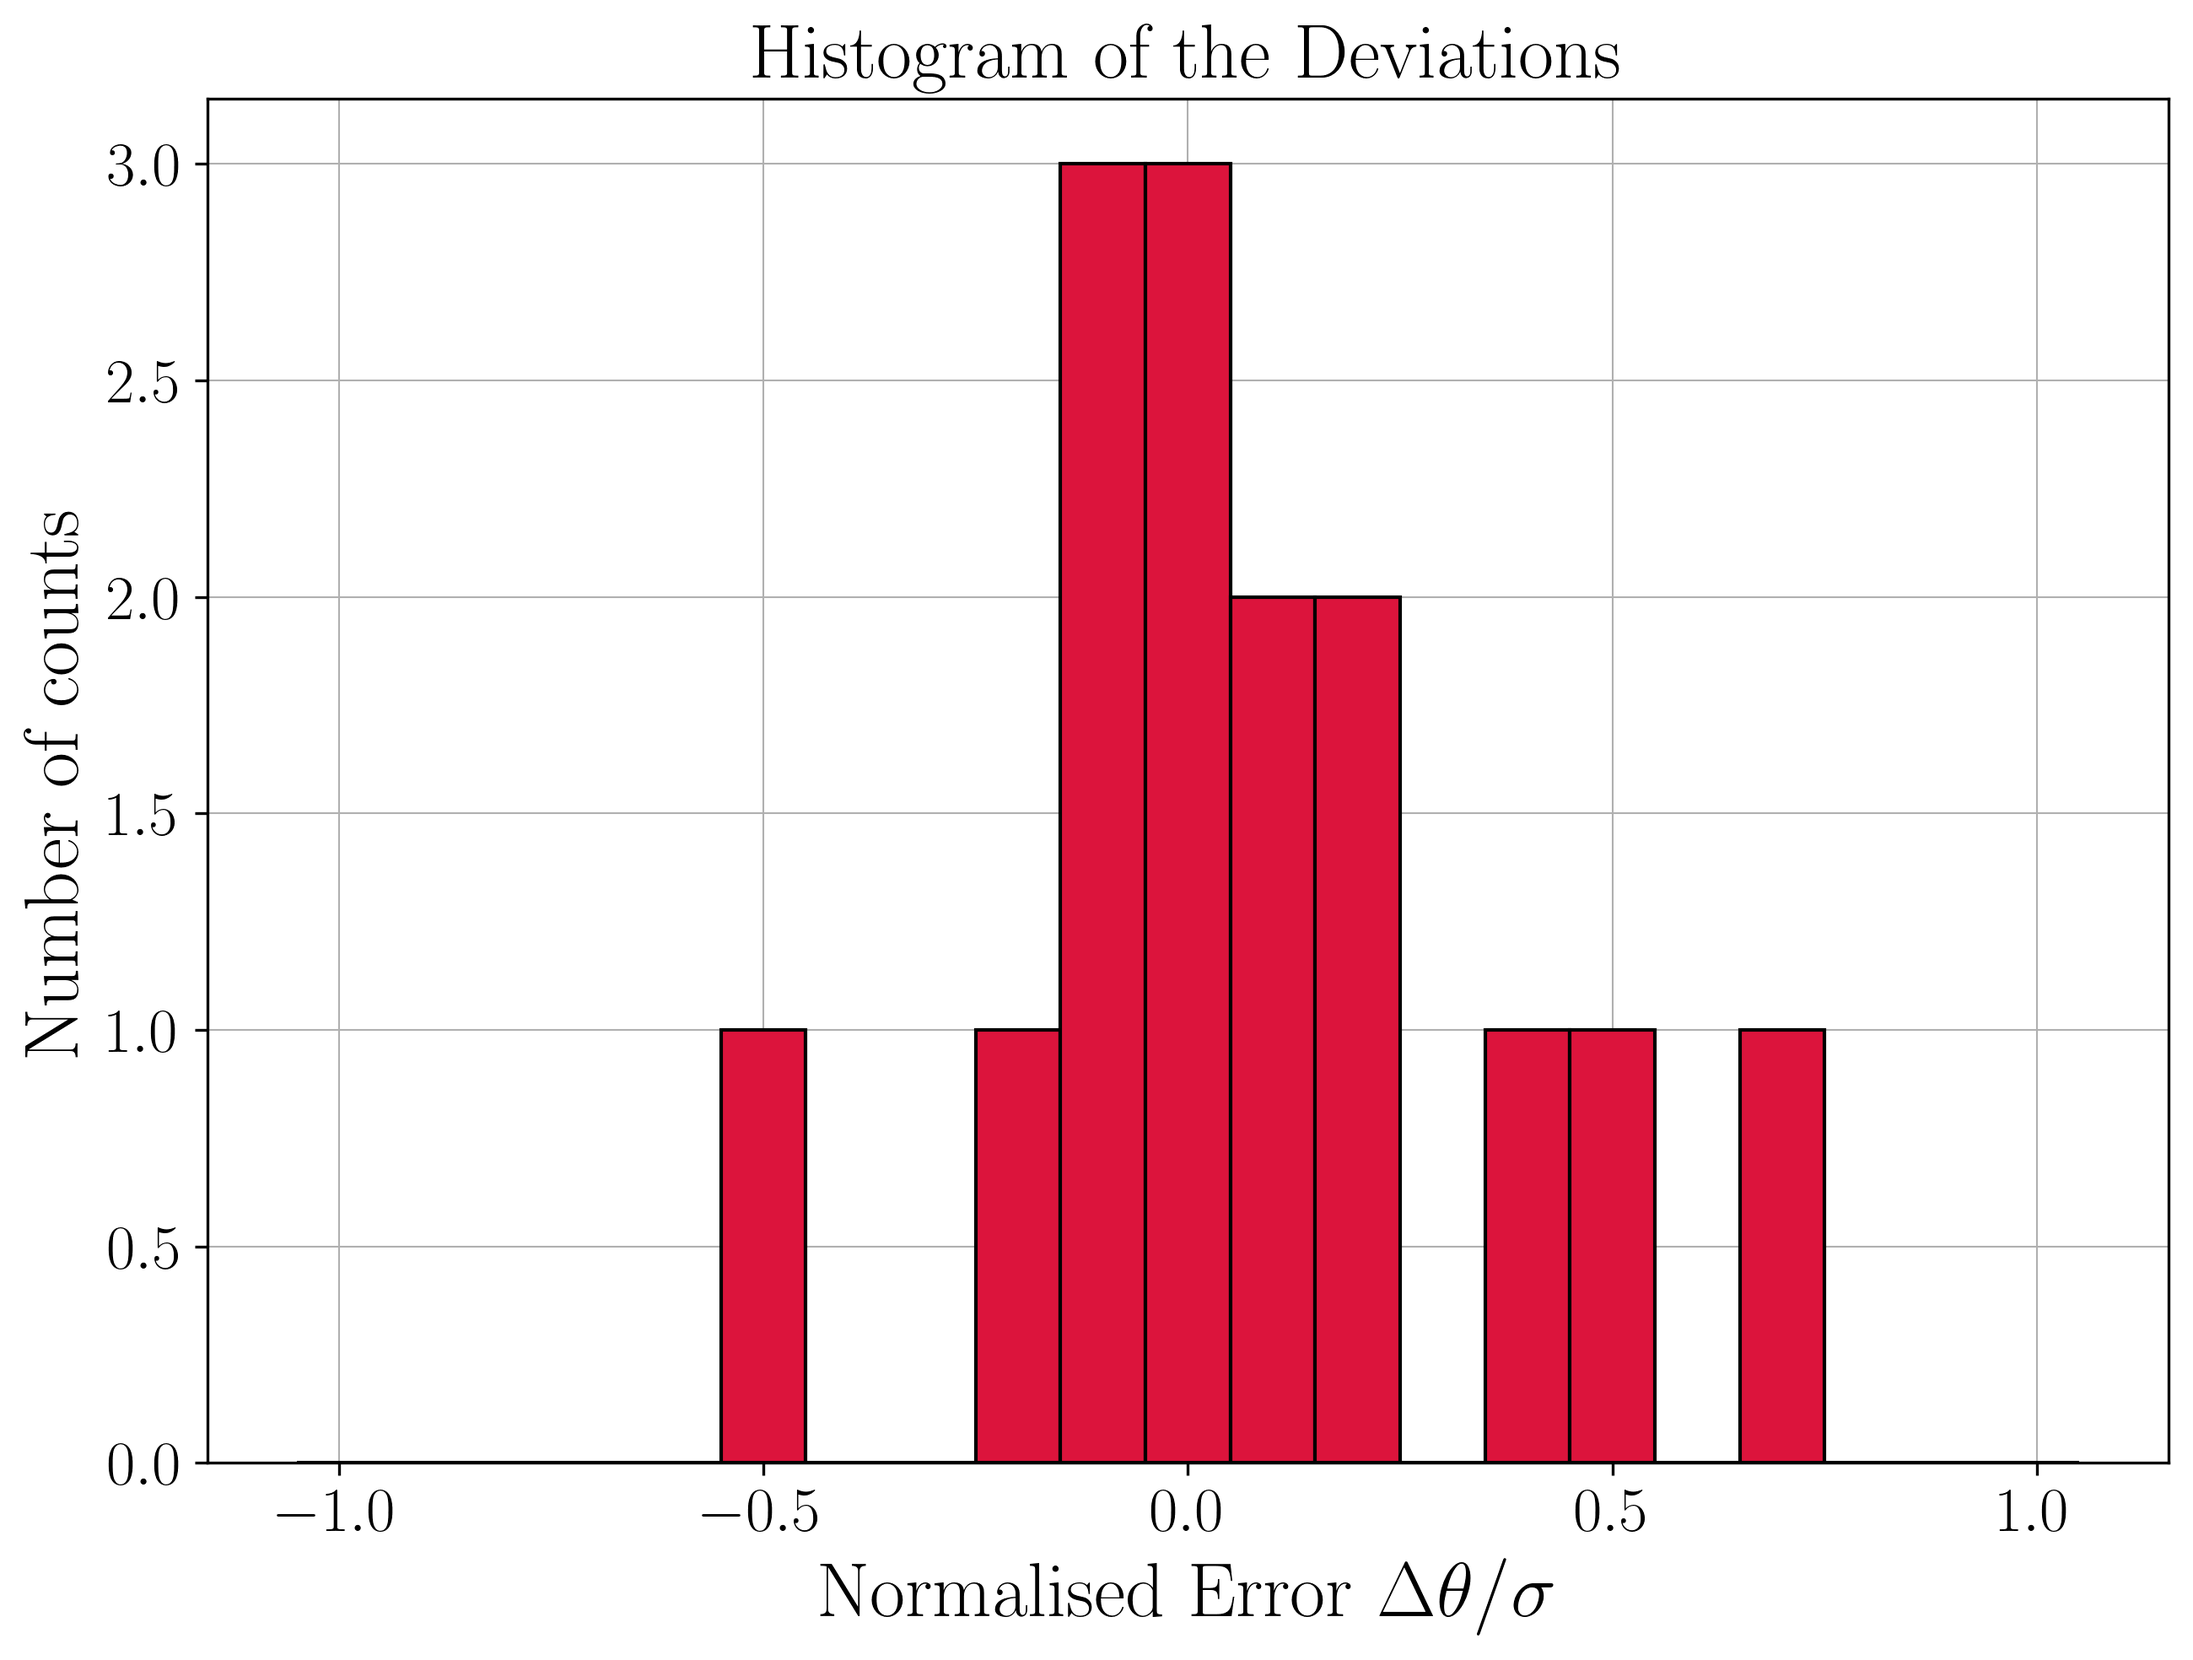
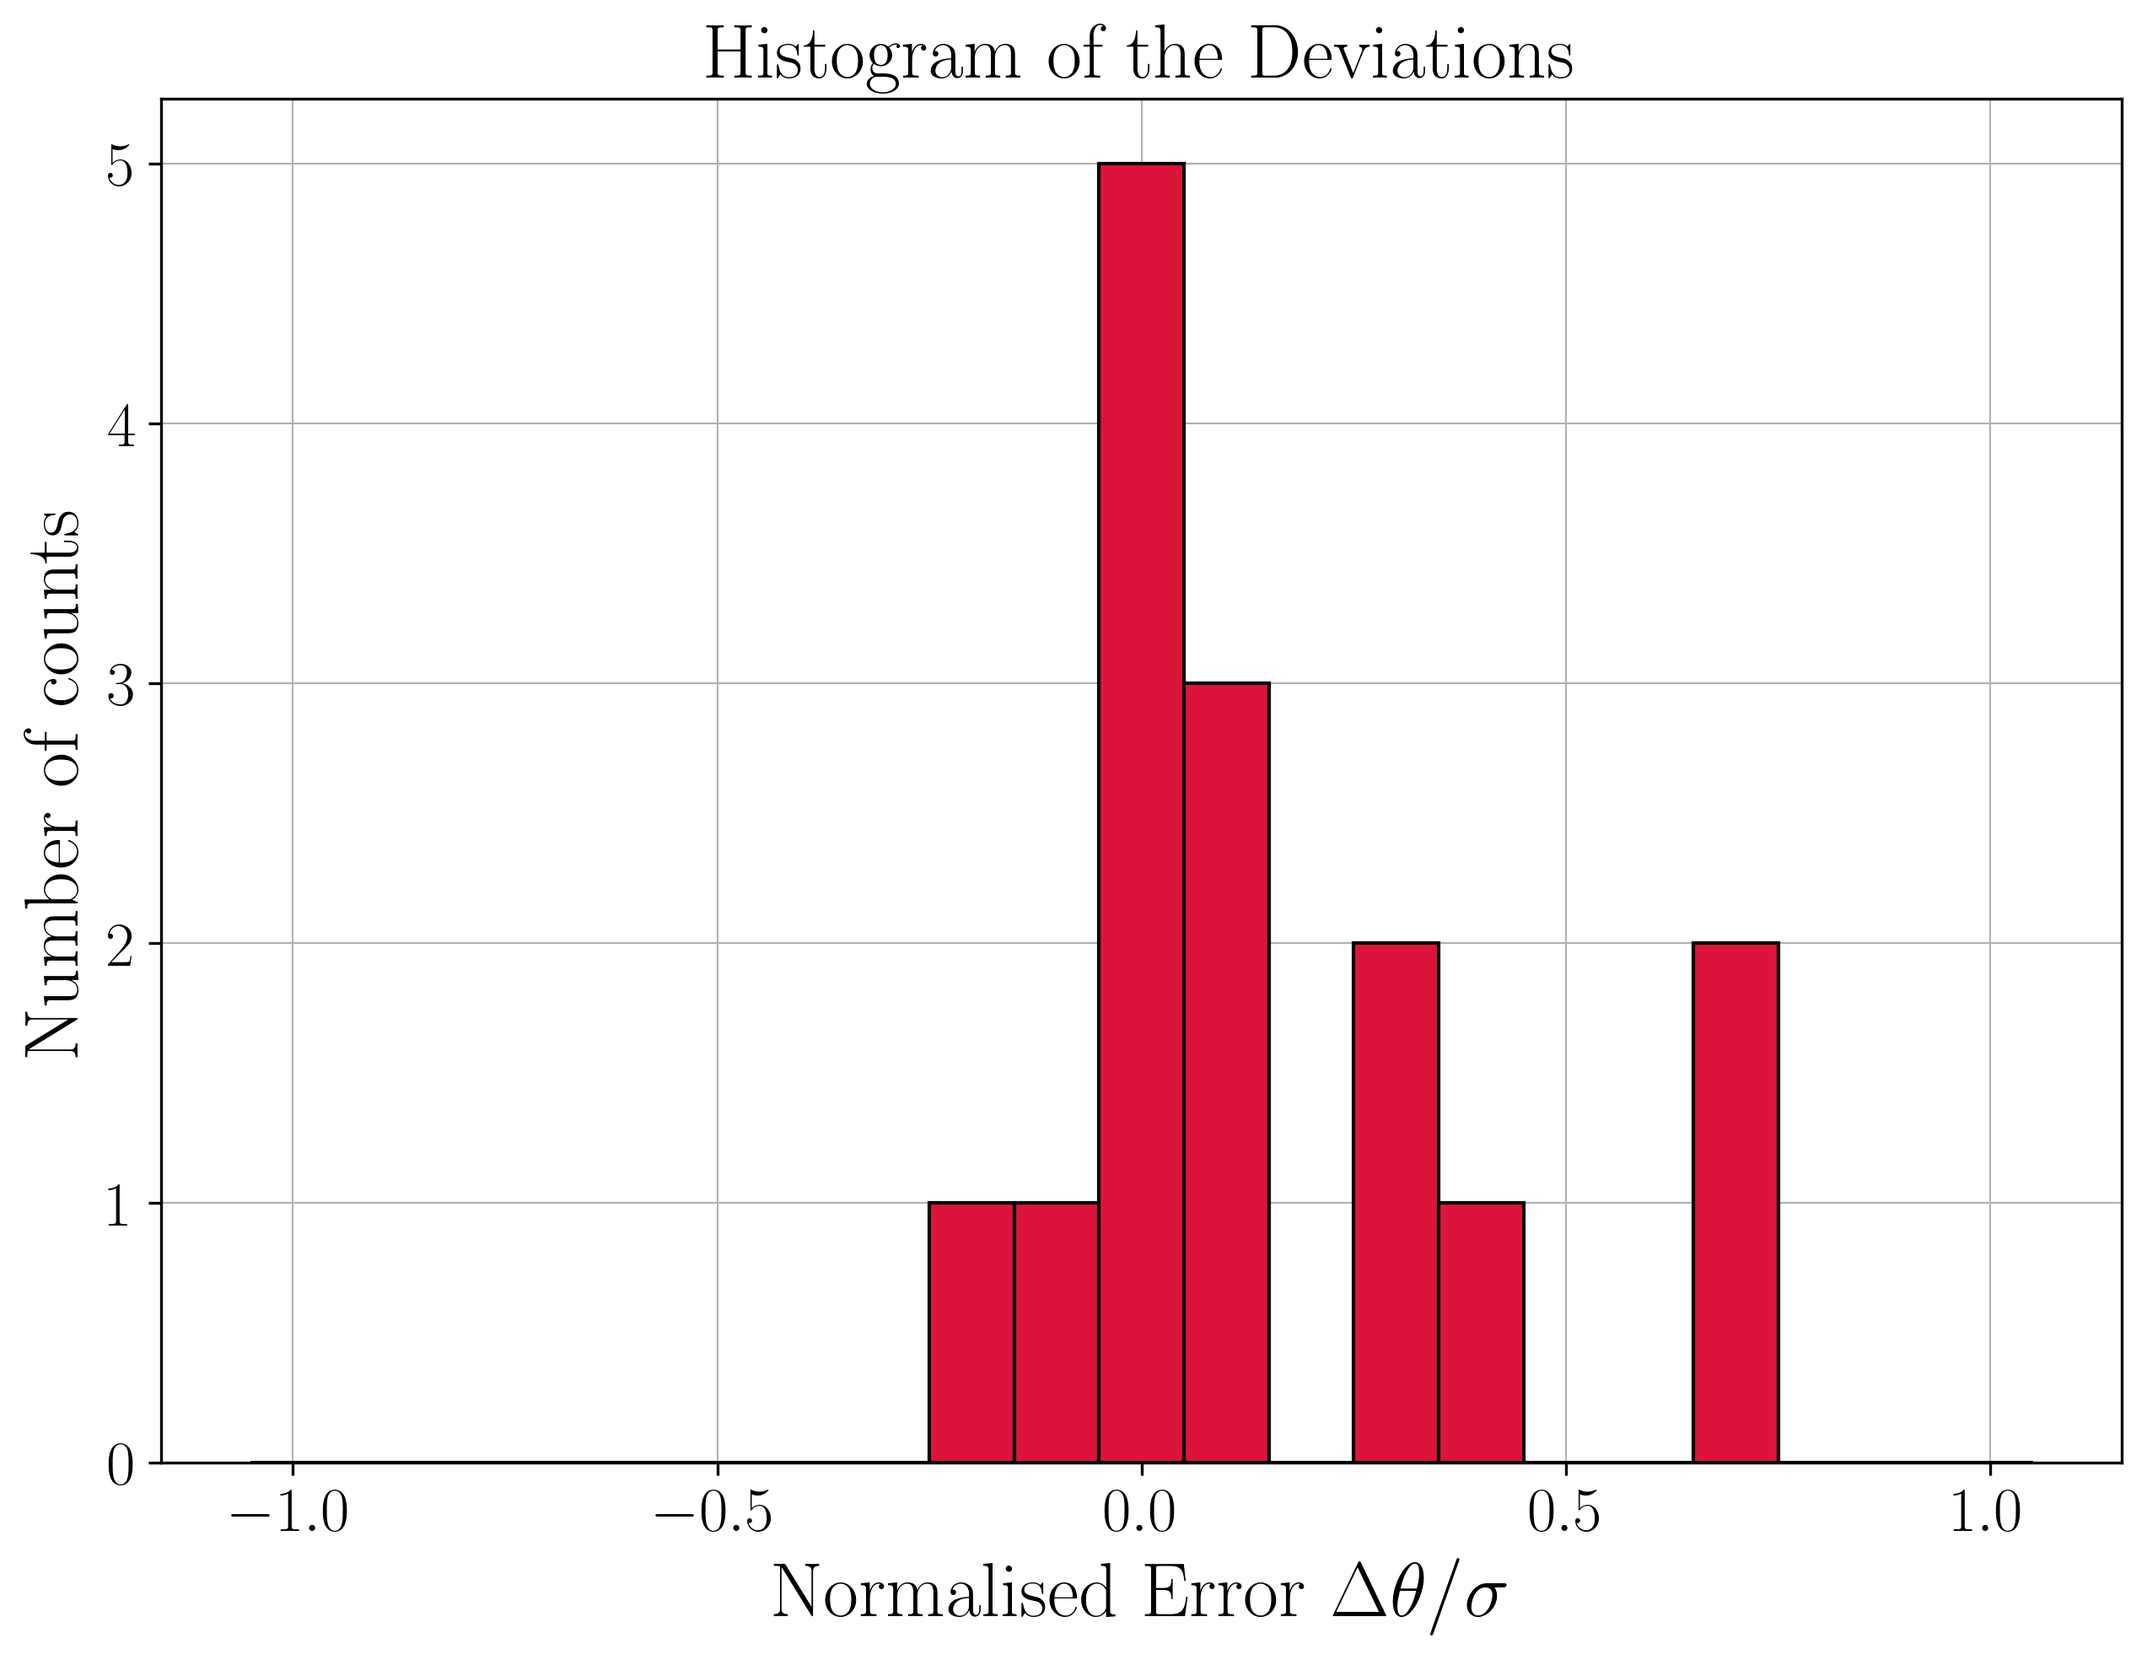
fixed equilibrium model

diff --git a/thermal_distribution.py b/thermal_distribution.py
@@ -18,8 +18,6 @@ plt.rcParams['legend.fontsize'] = 20
 plt.rcParams['savefig.dpi'] = 300
 plt.rcParams['savefig.bbox'] = 'tight'
 plt.rcParams['savefig.pad_inches'] = 0.1
-
-#plt.rcParams['savefig.transparent'] = True
 plt.rcParams['figure.figsize'] = (10, 7)
 
 # Set a random seed
@@ -40,8 +38,6 @@ for i in range(n):
 # Setup the spins
 s = np.random.randint(0, 2, n)
 s[s == 0] = -1
-
-print(s)
 
 # Calculation of the energy
 H = lambda s, h, j: - np.einsum("i, i ->", h, s) - np.einsum("a, ab, b ->", s, j, s) / 2
@@ -78,7 +74,7 @@ def spin_flip(N, s, h, j):
 N = int(2E4)
 
 # Every n_sep-th configuration of the last n_train values is taken as train data
-n_sep = 10
+n_sep = 5
 n_train = int(1E4)
 
 # Perform the spin flips on the spins s
@@ -94,10 +90,6 @@ s2 = np.einsum("ab, ac -> abc", s, s)
 mean_s = np.mean(s, axis = 0)
 mean_s2 = np.mean(s2, axis = 0)
 
-print(mean_s)
-
-print(H(mean_s, h, j))
-
 # We are now going to infer the parameters h and j
 # For that we first initialise some random values for h_0 and j_0
 h_0 = np.random.normal(0, 1, n)
@@ -108,7 +100,7 @@ for i in range(n):
     j_0[:, i] = j[i, :]
 
 # Number of steps for the gradient descend
-m = int(370)
+m = int(5E3)
 
 # Learning rate a
 a = 0.3
@@ -143,14 +135,15 @@ for i in range(m):
     # MSE of the weights
     lsq.append(np.mean(np.append(((h_0 - h) ** 2).flatten(), (((j_0 - j) * n) ** 2).flatten())))
  
-    l = np.einsum("b, ab -> a", h_0, s) + np.einsum("ab, bc, ac -> a", s, j_0, s) / 2
-    l = -np.mean(l)
+    l = np.einsum("i, i ->", h_0, mean_s) + np.einsum("ij, ij ->", j_0, mean_s2) / 2
     loss.append(l)
 
     # Progress
     if i % 10 == 0 : 
         print(i)
-        print(lsq[-1])
+        print("mean squared weights : {:.5f}".format(lsq[-1]))
+        print("loss : {:.5f}\n".format(l))
+
         
 # Plot of the loss
 fig, ax = plt.subplots()
@@ -166,6 +159,15 @@ ax.set_ylabel("Negative log-likelihood $\mathcal L$")
 ax.set_title("Loss during the training")
 
 plt.savefig("./thermal_images/loss_plot.png")
+
+fig, ax = plt.subplots()
+
+ax.scatter(lsq, loss, color = "black", zorder = 10)
+ax.grid()
+ax.set_ylabel("Loss $\mathcal L$")
+ax.set_xlabel("MSE")
+
+plt.savefig("./thermal_images/loss_MSE.png")
 
 # Comparison of the true and infered couplings
 dh = h_0 - h
